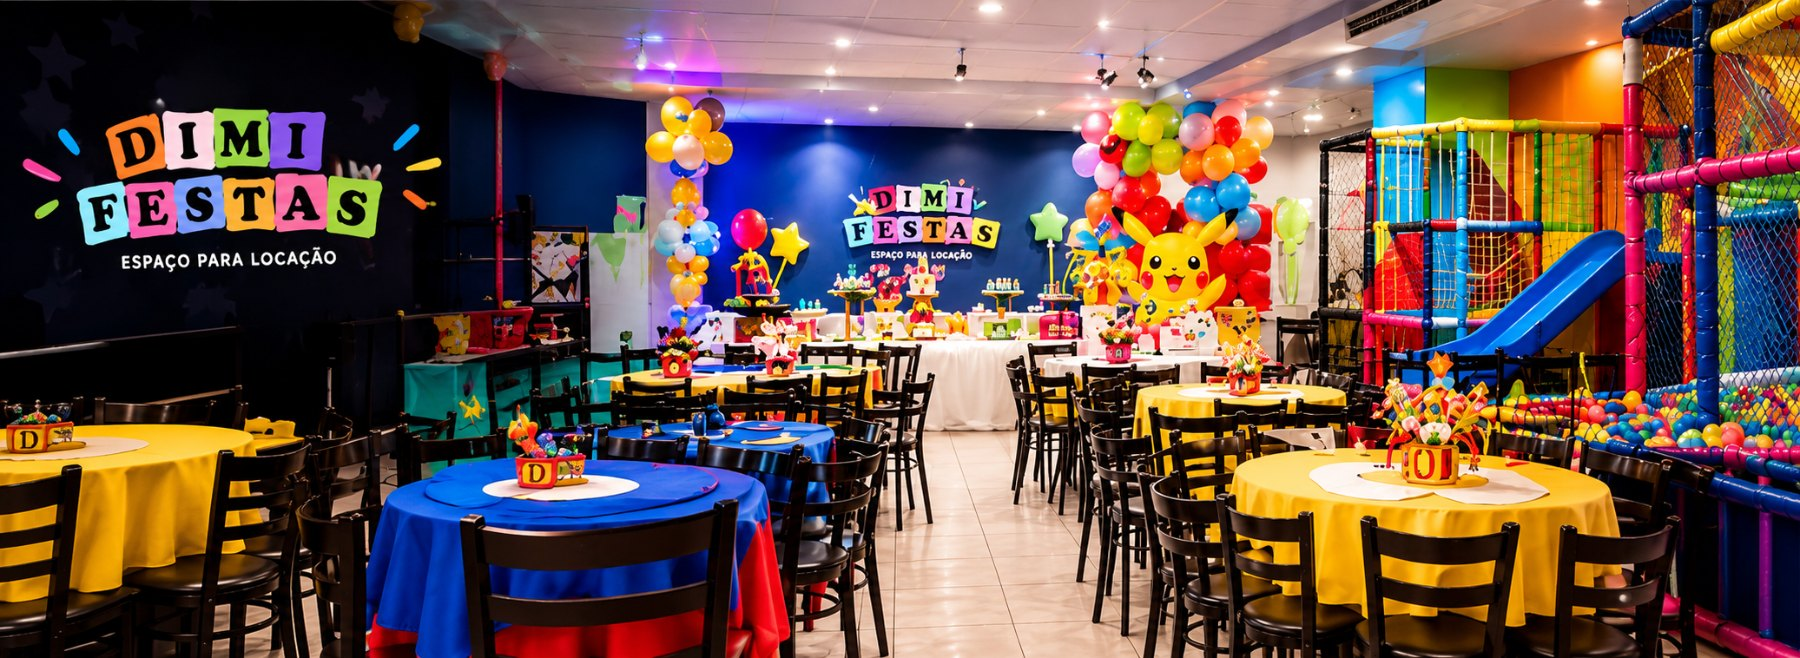
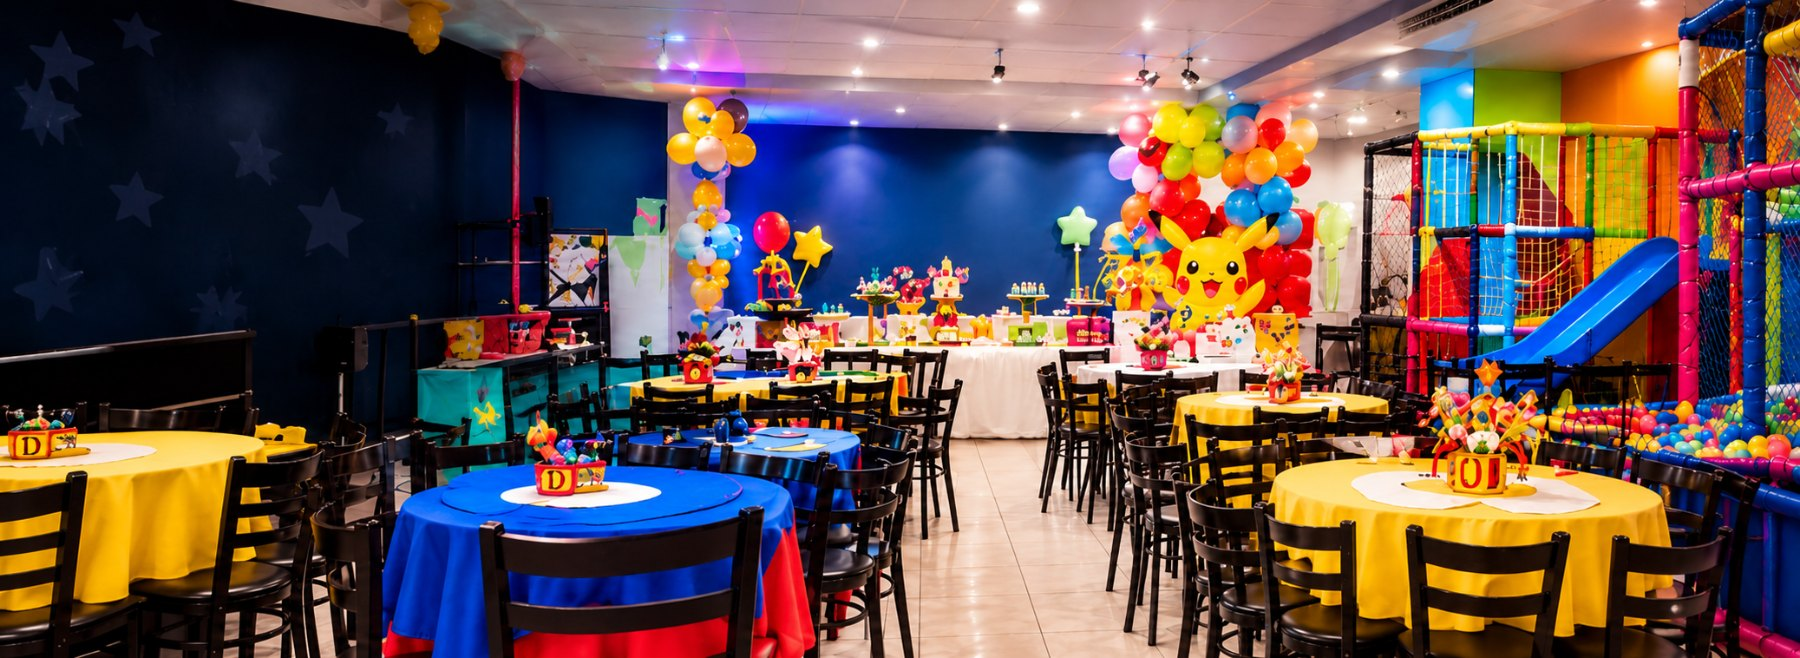
Barra do menu marinho com onda; foto nova no heroi; textos mais altos
Ela, 20/10: "suba um pouco o 'Um espaco feito para sorrisos', coloque essa
outra foto no header, os textos a esquerda suba mais e o menu deixe desse
jeito" (referencia com barra escura).
- Barra do menu em marinho, itens brancos, "Inicio" em rosa, logo com o
  subtitulo branco; a barra escorre sobre a foto numa onda.
- Heroi com a foto da parede estrelada (sem logo pintado); o bloco da
  frase, selos e botao comeca a 118 px do topo; a frase manuscrita sobe
  para 56 px do pe. Menu do celular tambem em marinho.

diff --git a/estilo.css b/estilo.css
@@ -64,6 +64,7 @@ h2 { margin: 0; }
 .onda { position: absolute; left: 0; width: 100%; height: 30px; display: block; pointer-events: none; }
 .onda-baixo { bottom: -1px; }
 .onda-cima { top: -29px; }
+.onda-topo { top: -1px; z-index: 1; }
 .nuvem { position: absolute; fill: var(--nuvem); width: 120px; height: 60px; pointer-events: none; }
 .mancha { position: absolute; border-radius: 50%; pointer-events: none; }
 .confete { position: absolute; fill: none; stroke-width: 4; stroke-linecap: round; pointer-events: none; }
@@ -71,19 +72,20 @@ h2 { margin: 0; }
 /* =====================================================================
    CABECALHO
    ===================================================================== */
-.topo { position: sticky; top: 0; z-index: 30; background: #fff; box-shadow: 0 1px 0 rgba(11, 27, 58, 0.06); }
+/* barra marinho, como na referencia dela de 20/10: logo claro, itens brancos, "Inicio" em rosa com risco embaixo */
+.topo { position: sticky; top: 0; z-index: 30; background: var(--marinho); color: #fff; }
 .topo-dentro { height: 100px; display: flex; align-items: center; padding: 0 40px 0 38px; gap: 20px; }
 .logo { flex: none; line-height: 0; }
 .logo img { width: 186px; height: auto; display: block; }
 .menu { flex: 1; display: flex; justify-content: flex-start; padding-left: 46px; }
 .menu ul { display: flex; gap: 36px; }
-.menu a { position: relative; display: block; padding: 6px 0; font-size: 15px; font-weight: 600; color: var(--marinho); text-decoration: none; transition: color 0.15s; }
+.menu a { position: relative; display: block; padding: 6px 0; font-size: 15px; font-weight: 600; color: #fff; text-decoration: none; transition: color 0.15s; }
 .menu a:hover { color: var(--rosa); }
 .menu a[aria-current] { color: var(--rosa); font-weight: 700; }
 .menu a[aria-current]::after { content: ""; position: absolute; left: 0; right: 0; bottom: -4px; height: 3px; border-radius: 3px; background: var(--rosa); }
 .botao-topo { padding: 0 26px 0 12px; }
 .hamburguer { display: none; width: 44px; height: 44px; border: 0; background: transparent; padding: 10px; cursor: pointer; flex-direction: column; justify-content: center; gap: 5px; }
-.hamburguer span { display: block; height: 3px; border-radius: 3px; background: var(--marinho); transition: transform 0.2s, opacity 0.2s; }
+.hamburguer span { display: block; height: 3px; border-radius: 3px; background: #fff; transition: transform 0.2s, opacity 0.2s; }
 .hamburguer[aria-expanded="true"] span:nth-child(1) { transform: translateY(8px) rotate(45deg); }
 .hamburguer[aria-expanded="true"] span:nth-child(2) { opacity: 0; }
 .hamburguer[aria-expanded="true"] span:nth-child(3) { transform: translateY(-8px) rotate(-45deg); }
@@ -108,7 +110,7 @@ h2 { margin: 0; }
 }
 /* o recuo de cima fica como padding (nao como margin da frase): margin colapsaria e empurraria a caixa inteira,
    levando a frase manuscrita absoluta para fora do heroi */
-.heroi-dentro { height: 100%; padding: 236px 0 0 36px; }
+.heroi-dentro { height: 100%; padding: 118px 0 0 36px; }
 .heroi-frase {
   margin: 0 0 0 4px;
   font-family: var(--caveat); font-weight: 600; font-size: 30px; line-height: 1;
@@ -127,7 +129,7 @@ h2 { margin: 0; }
 .amarelo-f { background: var(--amarelo); }
 .botao-heroi { margin-top: 20px; height: 36px; padding: 0 22px; font-size: 13px; letter-spacing: 0.06em; text-transform: uppercase; }
 .heroi-manuscrito {
-  position: absolute; right: 40px; bottom: 10px; margin: 0;
+  position: absolute; right: 40px; bottom: 56px; margin: 0;
   font-family: var(--caveat); font-weight: 600; font-size: 26px; line-height: 1; text-align: center;
   transform: rotate(-9deg);
   text-shadow: 0 2px 10px rgba(0, 0, 0, 0.4);
@@ -235,9 +237,9 @@ h2 { margin: 0; }
   .hamburguer { display: flex; margin-left: auto; }
   .topo-dentro { height: 76px; }
   .logo img { width: 160px; }
-  .menu-celular { display: grid; gap: 2px; padding: 6px 20px 18px; background: #fff; border-top: 1px solid rgba(11, 27, 58, 0.08); }
+  .menu-celular { display: grid; gap: 2px; padding: 6px 20px 18px; background: var(--marinho); border-top: 1px solid rgba(255, 255, 255, 0.12); }
   .menu-celular[hidden] { display: none; }
-  .menu-celular a { padding: 12px 6px; font-weight: 700; font-size: 16px; color: var(--marinho); text-decoration: none; border-bottom: 1px solid rgba(11, 27, 58, 0.06); }
+  .menu-celular a { padding: 12px 6px; font-weight: 700; font-size: 16px; color: #fff; text-decoration: none; border-bottom: 1px solid rgba(255, 255, 255, 0.08); }
 
   /* no celular a foto vira uma faixa inteira no alto (com o logo da parede) e o texto desce para o fundo marinho */
   .heroi { height: auto; }

diff --git a/index.html b/index.html
@@ -51,7 +51,9 @@
 <!-- ============================ HEROI ============================ -->
 <section class="heroi" aria-label="Boas-vindas">
   <!-- a foto do salao (com o logo pintado na parede) ocupa o heroi inteiro; o texto fica por cima, na esquerda -->
-  <div class="heroi-foto" role="img" aria-label="Salão do Dimi Festas, com o logo na parede, mesas coloridas, balões e brinquedão"></div>
+  <div class="heroi-foto" role="img" aria-label="Salão do Dimi Festas, com parede estrelada, mesas coloridas, balões e brinquedão"></div>
+  <!-- a barra do menu escorre sobre a foto numa onda, como na referencia -->
+  <svg class="onda onda-topo" viewBox="0 0 1215 30" preserveAspectRatio="none" aria-hidden="true"><path d="M0 0h1215v10c-60 8-150 20-260 16S760 6 640 10 420 30 300 22 100 6 0 14z" fill="#0B1B3A"/></svg>
   <div class="caixa heroi-dentro">
     <p class="heroi-frase">Aqui, a diversão ganha<br>vida e cada <span class="amarelo">momento</span><br>vira uma grande <span class="rosa">festa!</span><svg class="coracao" viewBox="0 0 24 24" aria-hidden="true"><path d="M12 20s-7-4.6-7-10a4 4 0 0 1 7-2.5A4 4 0 0 1 19 10c0 5.4-7 10-7 10z"/></svg></p>
     <ul class="heroi-selos">
